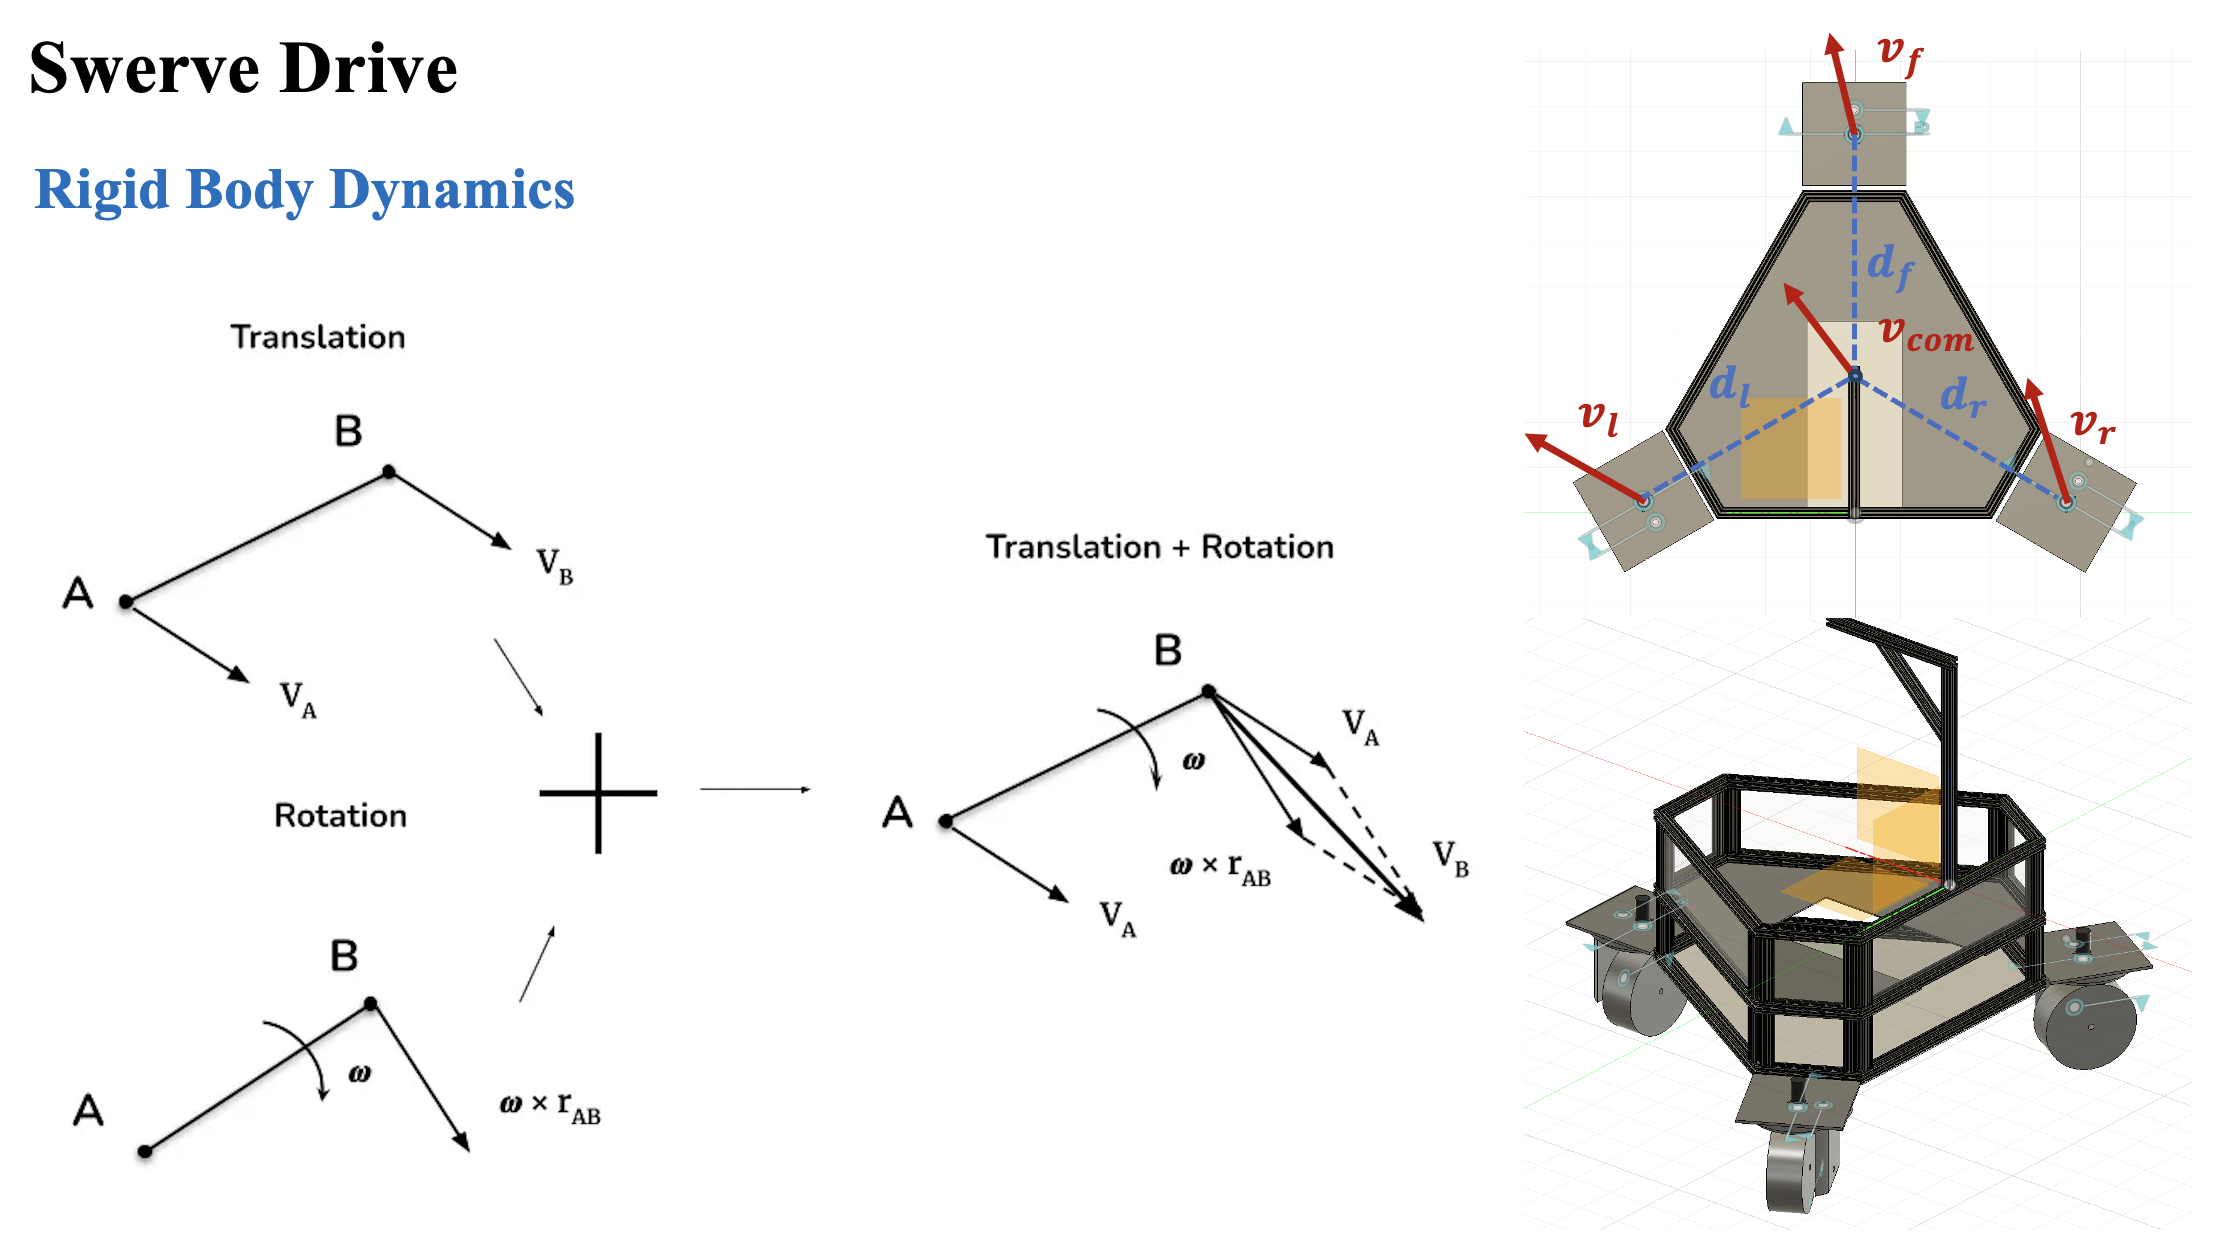
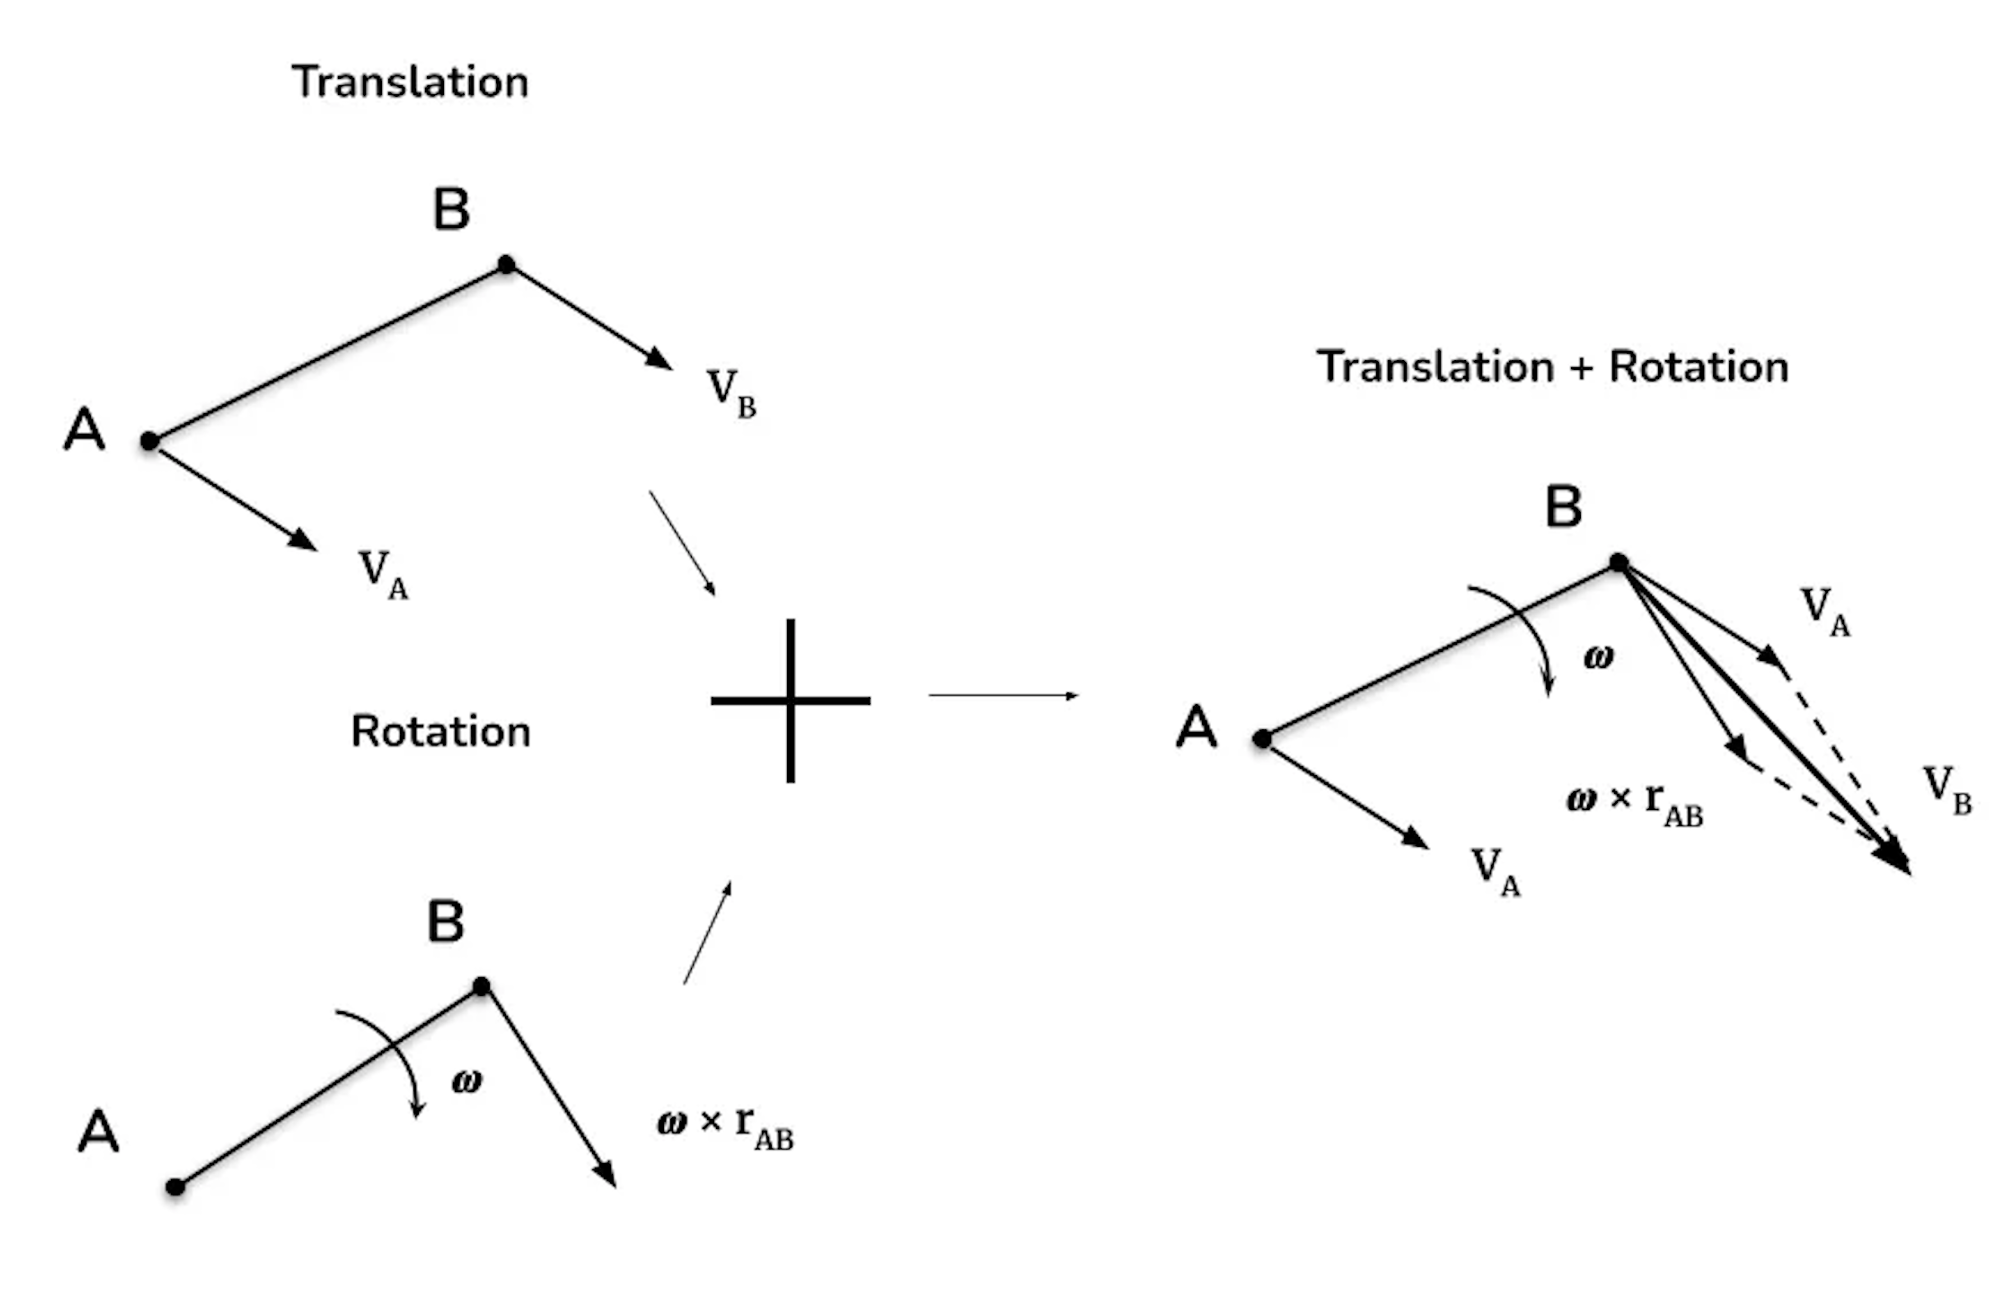
Add pic

diff --git a/warrior_control/README.md b/warrior_control/README.md
@@ -17,11 +17,16 @@ This module provides inverse and forward kinematics solutions for a three-wheel 
 The swerve drive kinematics is derived from rigid body dynamics principles.
 
 ### Rigid Body Dynamics
+| Illustration of Rigid Body Kinematics | Warrior Kinematics                                     |
+|----------------------------------------------|----------------------------------------------|
+| <img src="./docs/rigid_body_dynamics.png" height="330"/> | <img src="./docs/inverse_kinematics.png" height="330"/> |
 
-<p align="center">
+
+
+<!-- <p align="center">
  <img src="./docs/rigid_body_dynamics.png" width="840" alt="Rigid body dynamics diagram"/> 
  <br><b>Fig 1. Rigid Body Dynamics</b>
-</p>
+</p> -->
 
 For a rigid body moving in 2D space, the velocity at any point can be expressed as:
 
@@ -85,7 +90,7 @@ $$
 i \in \\{1,2,3\\}
 $$
 
-The corresponding wheel angular velocity for driving motor can then be computed as:
+The corresponding wheel angular velocity for each separate driving motor can then be computed as:
 
 $$
 \omega_i^{wheel} =
